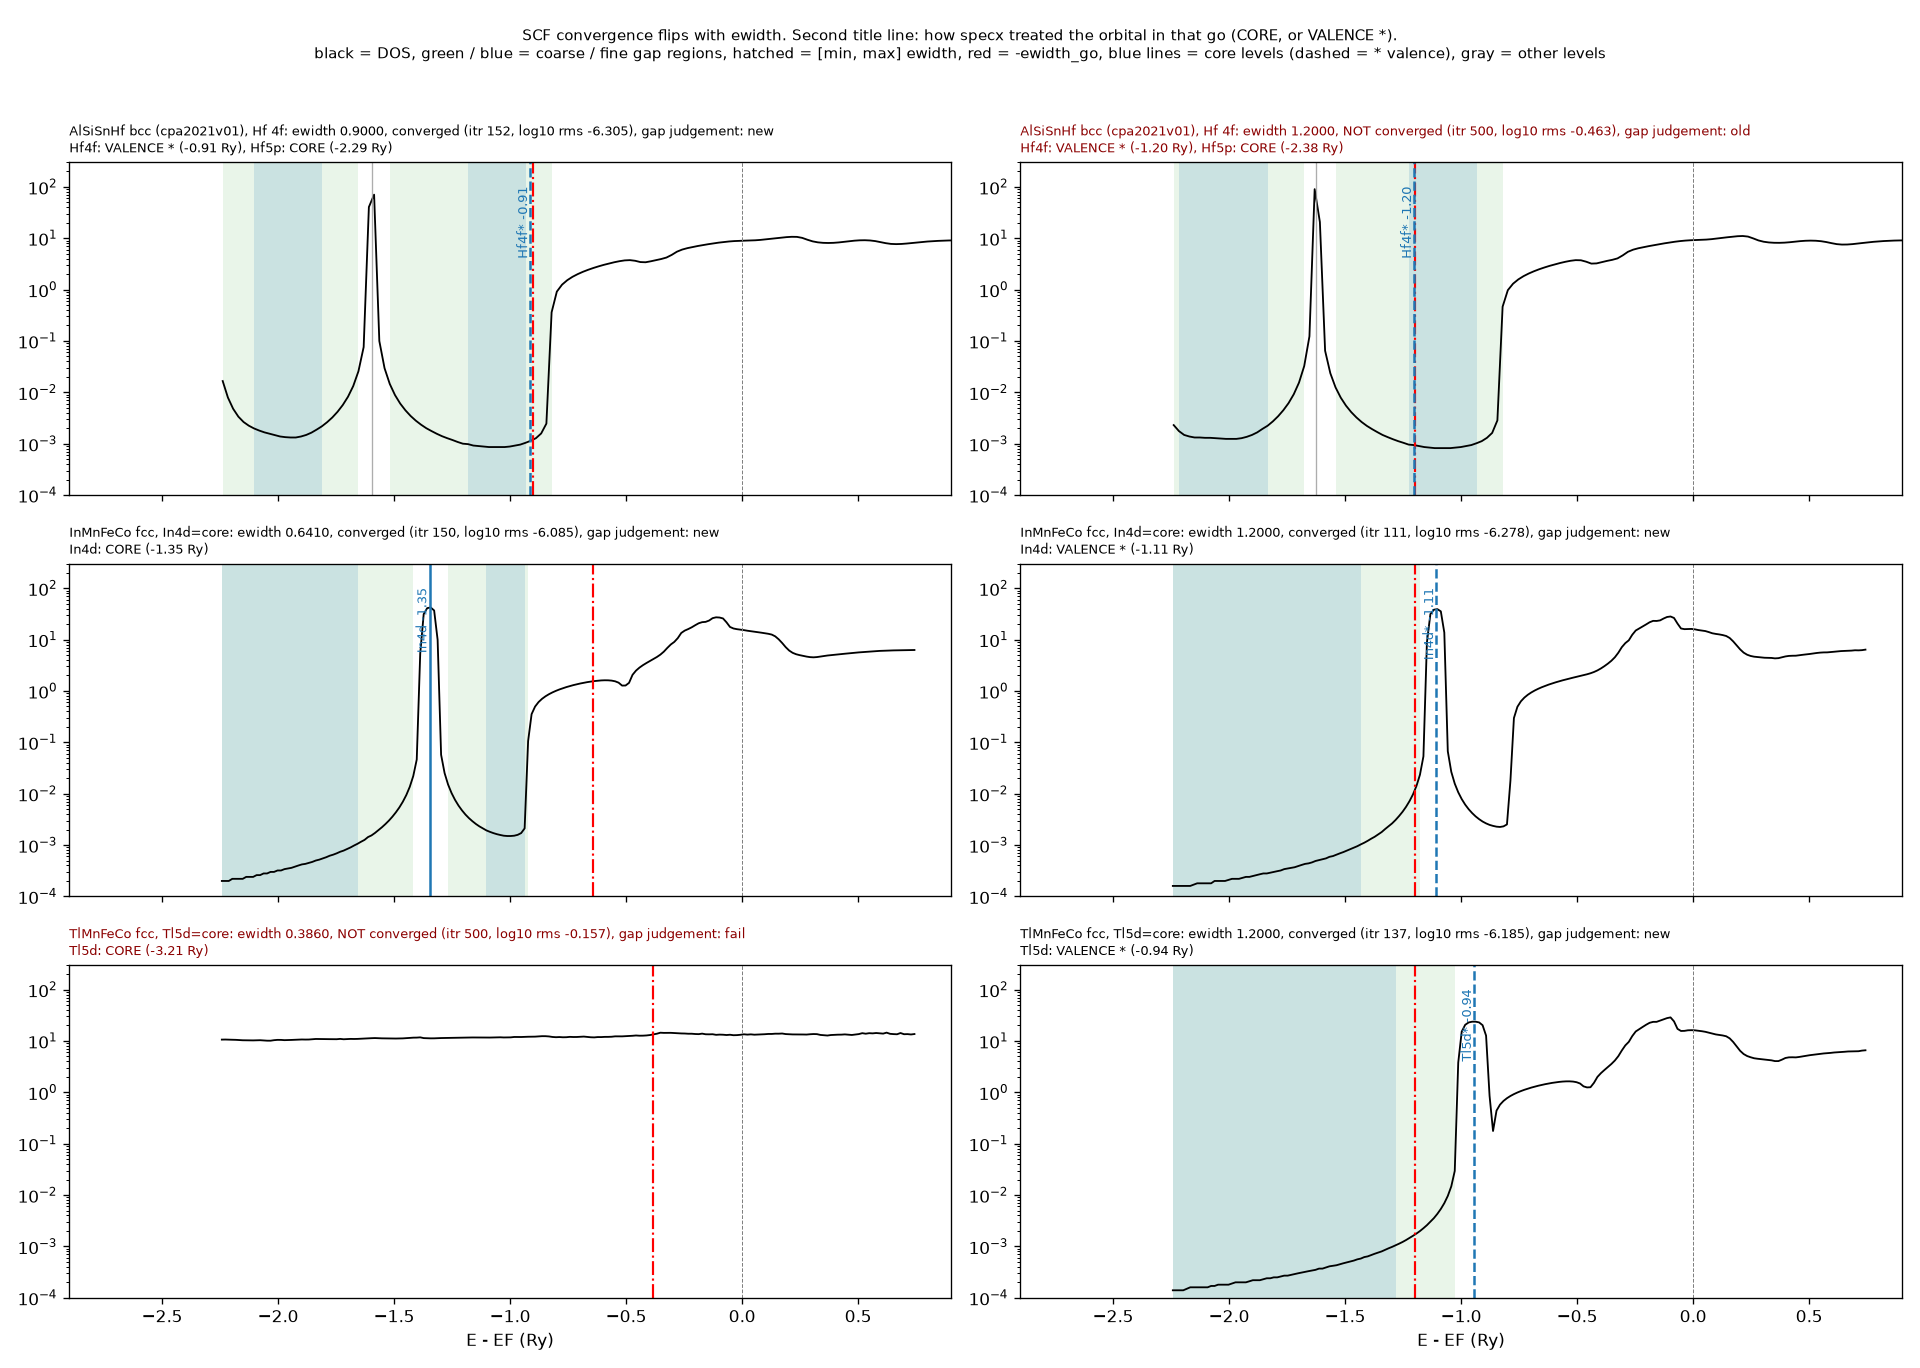
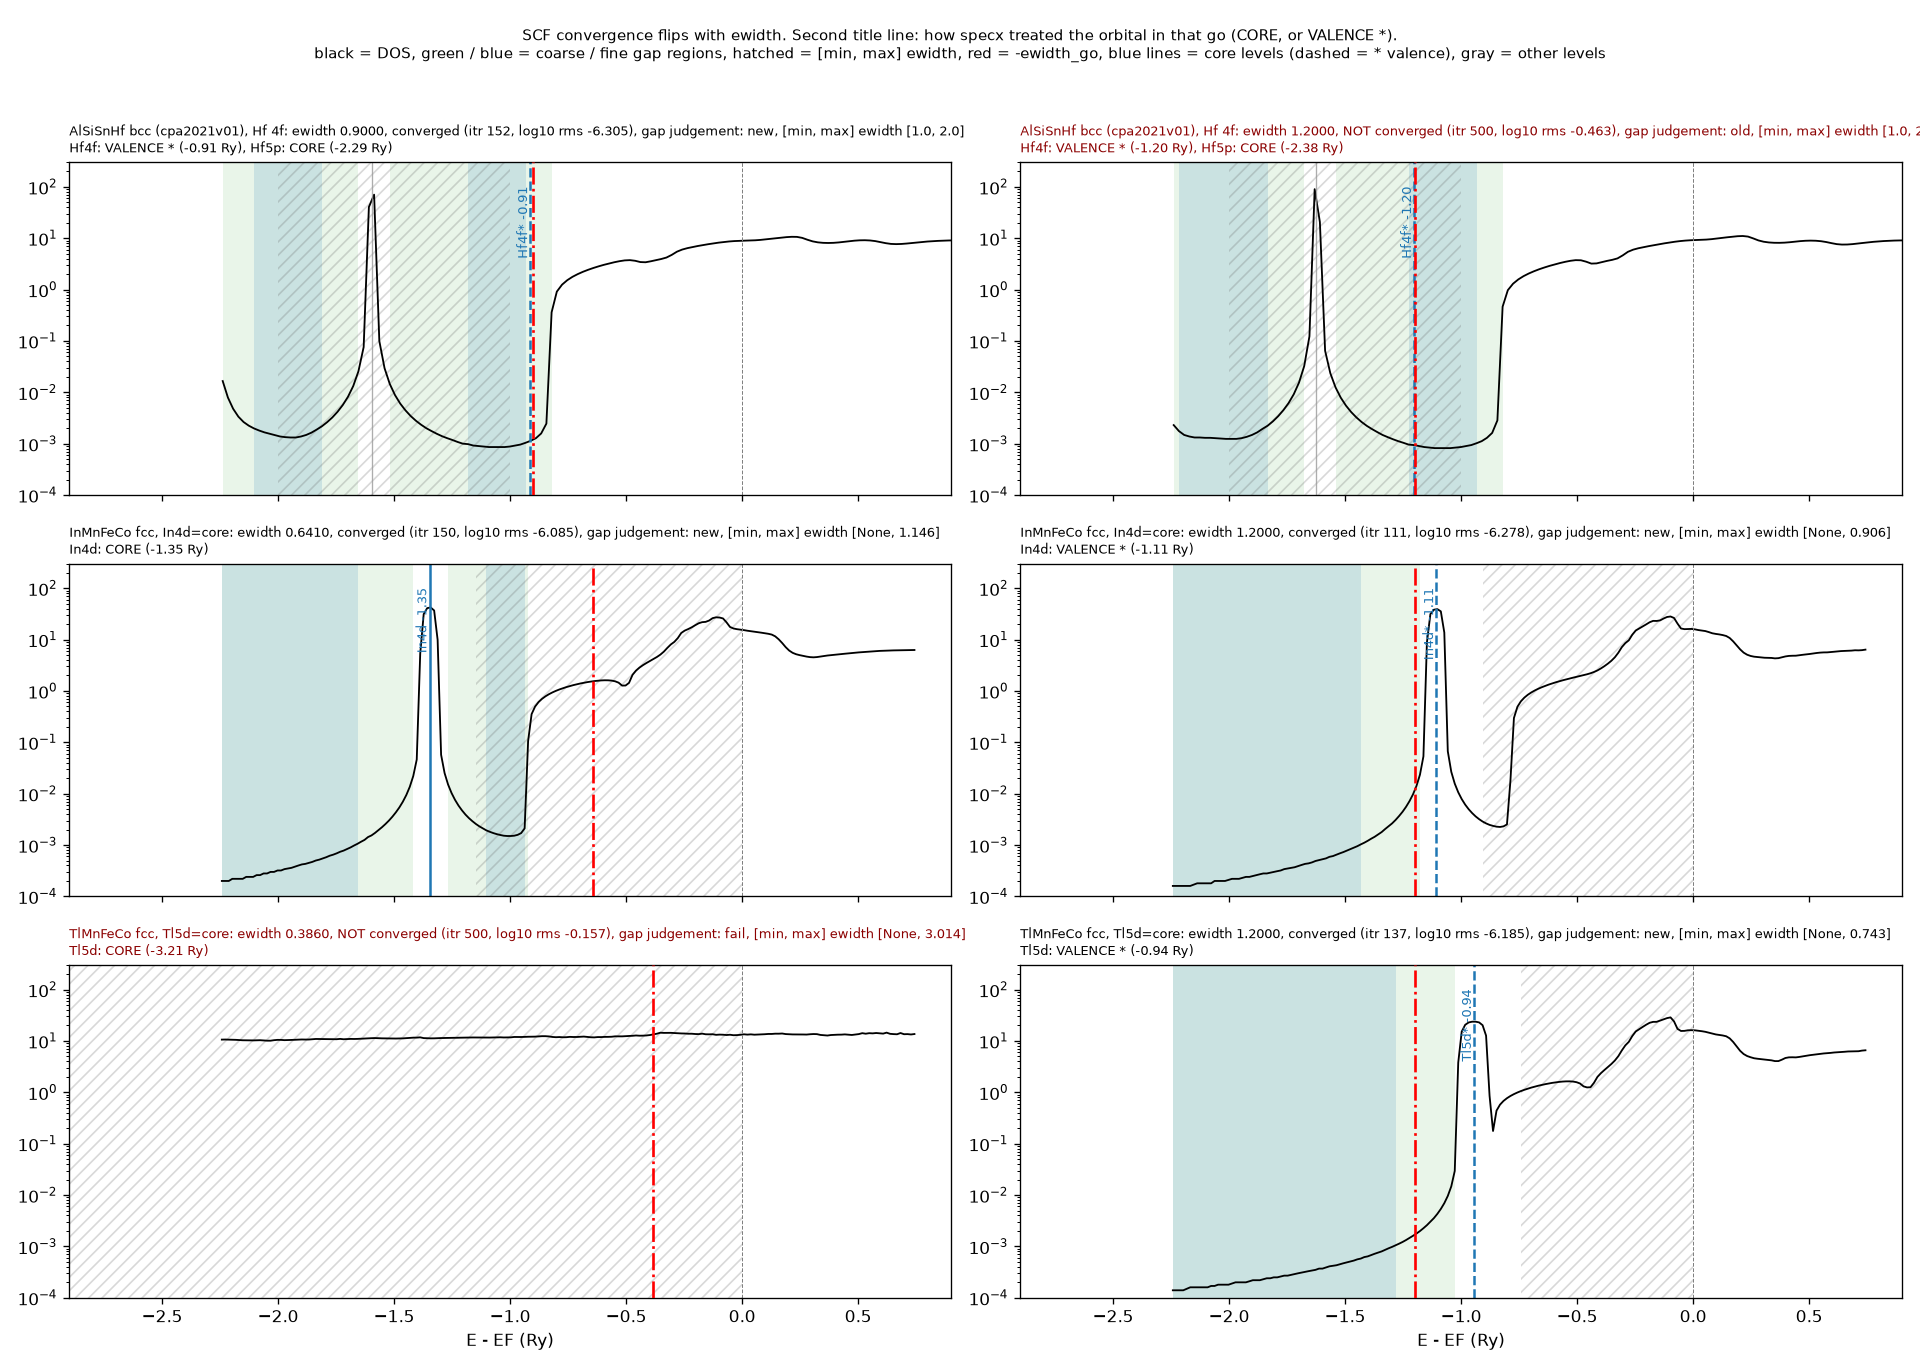
scf_convergence_vs_ewidth_dos.png: [min, max] ewidth band per panel; -ewidth line drawn above level lines

diff --git a/tests/gaes/tools/plot_conv_pairs.py b/tests/gaes/tools/plot_conv_pairs.py
@@ -1,5 +1,5 @@
 """DOS of go runs where a small change of ewidth flips the SCF convergence (spec section 12 note)."""
-import re, glob
+import re, glob, os
 import matplotlib
 matplotlib.use("Agg"); import matplotlib.pyplot as plt
 from pyakaikkr import AkaikkrJob
@@ -8,10 +8,19 @@ from pyakaikkr.gaes.ewidth import choose_ewidth2
 from pyakaikkr.gaes.plot import draw_gaes_dos, legend_text
 H = "/tmp/claude-1000/-home-kino-kino-Claude-Project-AKAIKKR/cf1c7f21-9c6c-416d-bd70-1577df1e05cf/scratchpad/ewscan_AlSiSnHf"
 T = "/home/kino/kino/Claude/Project/AKAIKKR/AkaiKKRPythonUtil/tests/gaes/RUN_Hf_stopped/Al0p25Si0p25Sn0p25Hf0p25_bcc"
+import json
+def bounds_of(run_dir, ew):
+    """[min_ewidth, max_ewidth] of the GAES judgement that used this go (key_*.json of the parent RUN directory)."""
+    for k in glob.glob(os.path.join(os.path.dirname(run_dir), "key_*.json")):
+        for j in json.load(open(k))["judgements"]:
+            if abs(j["ewidth"] - ew) < 1e-6 and j.get("orbital_bounds"):
+                return tuple(j["orbital_bounds"])
+    return None
 PAIRS = [
-    ("AlSiSnHf bcc (cpa2021v01), Hf 4f", ["Hf4f", "Hf5p"], [(H + "/ew_0.9", 0.9), (T + "/key_13145072,ew_000-1.2000,ed_000-1e-04,polytyp_bcc,pm_000-5e-03", 1.2)]),
-    ("InMnFeCo fcc, In4d=core", ["In4d"], [(glob.glob("RUN_orb4/InMnFeCo_In4d-core/key_*ew_000-0.6410*")[0], 0.641), (glob.glob("RUN_orb5/InMnFeCo_In4d-core/key_*ew_000-1.2000*")[0], 1.2)]),
-    ("TlMnFeCo fcc, Tl5d=core", ["Tl5d"], [(glob.glob("RUN_orb4/TlMnFeCo_Tl5d-core/key_*ew_000-0.3860*")[0], 0.386), (glob.glob("RUN_orb5/TlMnFeCo_Tl5d-core/key_*ew_000-1.2000*")[0], 1.2)]),
+    # the Hf runs had no orbital rule: the default range [1.0, 2.0] applies
+    ("AlSiSnHf bcc (cpa2021v01), Hf 4f", ["Hf4f", "Hf5p"], [(H + "/ew_0.9", 0.9, (1.0, 2.0)), (T + "/key_13145072,ew_000-1.2000,ed_000-1e-04,polytyp_bcc,pm_000-5e-03", 1.2, (1.0, 2.0))]),
+    ("InMnFeCo fcc, In4d=core", ["In4d"], [(d, ew, bounds_of(d, ew)) for d, ew in ((glob.glob("RUN_orb4/InMnFeCo_In4d-core/key_*ew_000-0.6410*")[0], 0.641), (glob.glob("RUN_orb5/InMnFeCo_In4d-core/key_*ew_000-1.2000*")[0], 1.2))]),
+    ("TlMnFeCo fcc, Tl5d=core", ["Tl5d"], [(d, ew, bounds_of(d, ew)) for d, ew in ((glob.glob("RUN_orb4/TlMnFeCo_Tl5d-core/key_*ew_000-0.3860*")[0], 0.386), (glob.glob("RUN_orb5/TlMnFeCo_Tl5d-core/key_*ew_000-1.2000*")[0], 1.2))]),
 ]
 def info(d):
     txt = open(d + "/out_go.log").read()
@@ -19,18 +28,19 @@ def info(d):
     return (int(itr[-1]) if itr else None), (float(err[-1]) if err else None), ("cpu time" in txt or "sbrtime" in txt)
 fig, axes = plt.subplots(len(PAIRS), 2, figsize=(16, 3.8 * len(PAIRS)), sharex=True)
 for row, (name, keys, runs) in enumerate(PAIRS):
-    for col, (d, ew) in enumerate(runs):
+    for col, (d, ew, bounds) in enumerate(runs):
         ax = axes[row, col]
         e, c, _ = dos_curves_from_outputs([(AkaikkrJob(d), "out_dos.log")]); lv = levels_from_go(d + "/out_go.log")
         n, err, _ = info(d); conv = err is not None and err < -5.9
         # gap regions by the Method 2 rules (dosth 2e-2 / dosth2 1e-3, eth 0.3, ediff 0.2), no ewidth bounds
         dec = choose_ewidth2(e, c, ew, dosth=2e-2, dosth2=1e-3, eth=0.3, ediff=0.2)
         flag = dec.flag
-        draw_gaes_dos(ax, e, c[0], ewidth=ew, decision=dec, levels=lv, highlight=keys, xlim=(-2.9, 0.9))
+        draw_gaes_dos(ax, e, c[0], ewidth=ew, decision=dec, bounds=bounds, levels=lv, highlight=keys, xlim=(-2.9, 0.9))
         # how specx treated the orbital concerned in this go: '*' = valence (inside the contour), else core
         roles = ", ".join("%s: %s (%.2f Ry)" % (k, "VALENCE *" if lv[k].star else "CORE", lv[k].e) for k in keys if k in lv)
-        ax.set_title("%s: ewidth %.4f, %s (itr %s, log10 rms %s), gap judgement: %s\n%s" % (
-            name, ew, "converged" if conv else "NOT converged", n, err, flag, roles), fontsize=8, loc="left",
+        bl = "[%s, %s]" % tuple(None if b is None else round(b, 3) for b in bounds) if bounds else "none"
+        ax.set_title("%s: ewidth %.4f, %s (itr %s, log10 rms %s), gap judgement: %s, [min, max] ewidth %s\n%s" % (
+            name, ew, "converged" if conv else "NOT converged", n, err, flag, bl, roles), fontsize=8, loc="left",
             color="k" if conv else "darkred")
 for ax in axes[-1]: ax.set_xlabel("E - EF (Ry)")
 fig.suptitle("SCF convergence flips with ewidth. Second title line: how specx treated the orbital in that go (CORE, or VALENCE *).\n" + legend_text(), fontsize=9)

diff --git a/library/PyAkaiKKR/src/pyakaikkr/gaes/plot.py b/library/PyAkaiKKR/src/pyakaikkr/gaes/plot.py
@@ -43,7 +43,7 @@ def draw_ewidth(ax, ewidth, label=None, **kw):
     """the contour bottom E_F - ewidth_go (red dash-dot); ewidth may be None."""
     if ewidth is None:
         return
-    kw = dict(color=EWIDTH_COLOR, ls="-.", lw=1.3, label=label) | kw
+    kw = dict(color=EWIDTH_COLOR, ls="-.", lw=1.6, label=label, zorder=6) | kw   # on top of level lines at the same energy
     ax.axvline(-ewidth, **kw)
 
 
